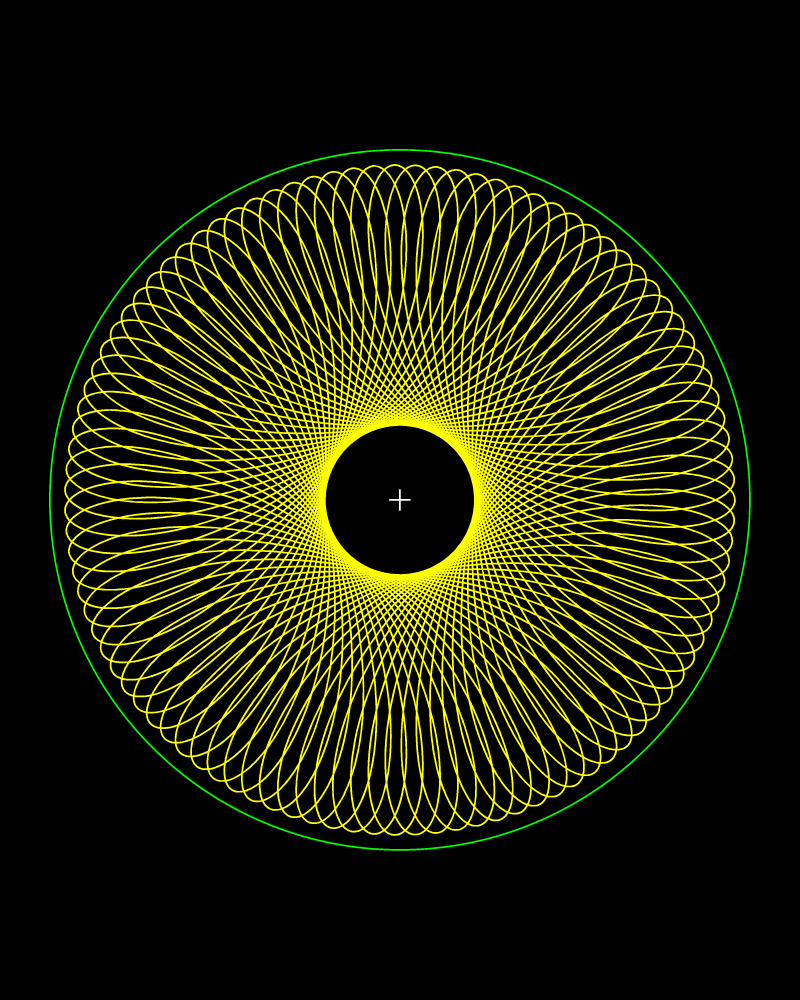
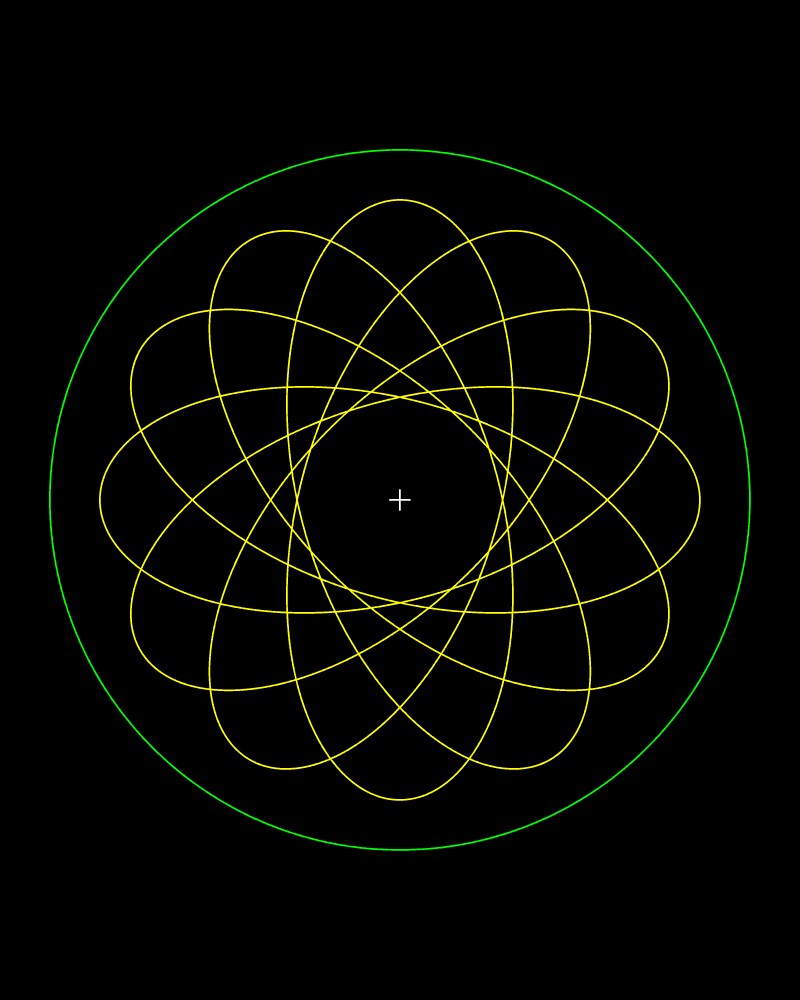
refactored

Changed region(s): [[0.0625, 0.155, 0.9375, 0.837]]

diff --git a/src/draw.rs b/src/draw.rs
@@ -47,13 +47,15 @@ impl Origin{
         Origin { x: x, y: y }
     }
 
-    pub fn new_adjust(&self, x: f32, y: f32) -> Point {
-        Point::new(x + self.x, y + self.y)
+    pub fn offset(&self, p: Point) -> Self {
+        let p = Point::new(p.x + self.x, p.y + self.y);
+        Origin { x: p.x, y: p.y }
     }
 
-    pub fn new_origin(&self, p: Point) -> Self {
-        let p = self.new_adjust(p.x, p.y);
-        Origin { x: p.x, y: p.y }
+    pub fn within_range (&self, other: &Self, range: f32) -> bool{
+        let dist = ((other.x - self.x).powi(2) + (other.y - self.y).powi(2)).sqrt();
+        dist >= -range && dist <= range
+
     }
 
 }
@@ -71,8 +73,8 @@ impl Line{
 
     pub fn get_path(&self, origin: &Origin) -> Path {
         let mut pb = PathBuilder::new();
-        let p1 = origin.new_origin(self.p1);
-        let p2 = origin.new_origin(self.p2);
+        let p1 = origin.offset(self.p1);
+        let p2 = origin.offset(self.p2);
         pb.move_to(p1.x, p1.y);
         pb.line_to(p2.x, p2.y);
 
@@ -154,22 +156,18 @@ impl Circle {
                    self.center.y + (self.angle.sin() * (self.radius - off_rad)))
     }
 
-    pub fn create_path(&self, origin: &Origin, incr: u32) -> Path {
-        let origin = origin.new_origin(self.center);
+    pub fn create_path(&self, origin: &Origin, incr: f32) -> Path {
+        let origin = origin.offset(self.center);
         let mut circ = self.clone();
 
-        let sweep_pec = circ.angle / (2.0*PI);
-        let sweep = (incr as f32 * sweep_pec) as u32;
-        let incr = circ.angle / sweep as f32;
-
         let mut pb = PathBuilder::new();
-        let current = origin.new_adjust(circ.radius, 0.);
+        let current = origin.offset(Point::new(circ.radius, 0.));
         pb.move_to(current.x, current.y);
 
         circ.angle = 0.0;
         while circ.angle < self.angle {
             circ.angle += incr;
-            let current = origin.new_origin(circ.get_offset_point(0.));
+            let current = origin.offset(circ.get_offset_point(0.));
             pb.line_to(current.x, current.y);
         };
 
@@ -194,7 +192,7 @@ impl SpiroGraph{
         }
     }
 
-    pub fn draw_border(&self, canvas: &mut Canvas, stroke: &StrokeStyle, color: &Source<'_>, incr: u32){
+    pub fn draw_border(&self, canvas: &mut Canvas, stroke: &StrokeStyle, color: &Source<'_>, incr: f32){
        canvas.draw(
             &self.outer.create_path(&canvas.origin, incr),
             &color,
@@ -202,9 +200,7 @@ impl SpiroGraph{
         );
     }
 
-    pub fn draw(&self, canvas: &mut Canvas, stroke: &StrokeStyle, color: &Source<'_>, pen_off: f32, incr: u32) {
-        let sweep = PI * 100.;
-        let incr = sweep / incr as f32;
+    pub fn draw(&self, canvas: &mut Canvas, stroke: &StrokeStyle, color: &Source<'_>, pen_off: f32, incr: f32, range: f32) {
 
         let mut circ_out = self.outer.clone();
         let mut circ_in = self.inner.clone();
@@ -213,19 +209,25 @@ impl SpiroGraph{
         circ_in.angle = 0.;
         circ_in.center =circ_out.get_offset_point(self.inner.radius);
 
-        let origin = canvas.origin.new_origin(circ_out.center);
+        let origin = canvas.origin.offset(circ_out.center);
         let mut pb = PathBuilder::new();
-        let current = origin.new_origin(circ_in.get_offset_point(pen_off));
-        pb.move_to(current.x, current.y);
+        let begin = origin.offset(circ_in.get_offset_point(pen_off));
+        pb.move_to(begin.x, begin.y);
 
-        while circ_out.angle > -(sweep) {
+        loop {
             circ_in.angle += incr;
             circ_out.set_angle_by_arc(-circ_in.get_arc_len());
             circ_in.center = circ_out.get_offset_point(self.inner.radius);
 
-            let current = origin.new_origin(circ_in.get_offset_point(pen_off));
+            let current = origin.offset(circ_in.get_offset_point(pen_off));
             pb.line_to(current.x, current.y);
+
+            if circ_out.angle < -(PI * 2.) &&  current.within_range(&begin, range) {
+                break;
+            }
         }
+
+        println!("rotations: {}", circ_out.angle / (PI * 2.));
 
         canvas.draw(
             &pb.finish(),

diff --git a/src/main.rs b/src/main.rs
@@ -1,12 +1,8 @@
 extern crate raqote;
-use std::f32::consts::PI;
-
 use raqote::*;
 
 mod draw;
 use draw::{*};
-
-
 
 struct Pallet<'a> {
     black: Source<'a>,
@@ -64,13 +60,14 @@ fn main() {
     cross.draw(&mut canvas, &pallet.white, &line_stroke);
 
     let outer_radius: f32 = 350.;
-    let inner_radius: f32 = 145.;
-    let pen_off = 15.;
-    let incr = 10000;
+    let inner_radius: f32 = 250.;
+    let pen_off = 50.;
+    let incr: f32 = 0.005;
+    let range = 1.0;
 
     let spiral = SpiroGraph::new(Point::new(0., 0.), outer_radius, inner_radius);
     spiral.draw_border(&mut canvas, &line_stroke, &pallet.green, incr);
-    spiral.draw(&mut canvas, &line_stroke, &pallet.yellow, pen_off, incr);
+    spiral.draw(&mut canvas, &line_stroke, &pallet.yellow, pen_off, incr, range);
 
     canvas.write_png("example.png");
 

diff --git a/README.md b/README.md
@@ -1,1 +1,5 @@
 # spirals
+
+A casual return to childhood ....  I rally loved my Spirograph as Kid...
+
+Here's a simple Rust example of how to draw png spirographs
